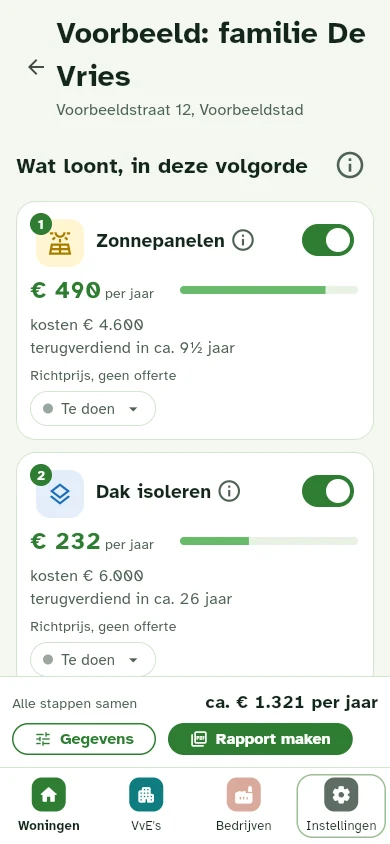
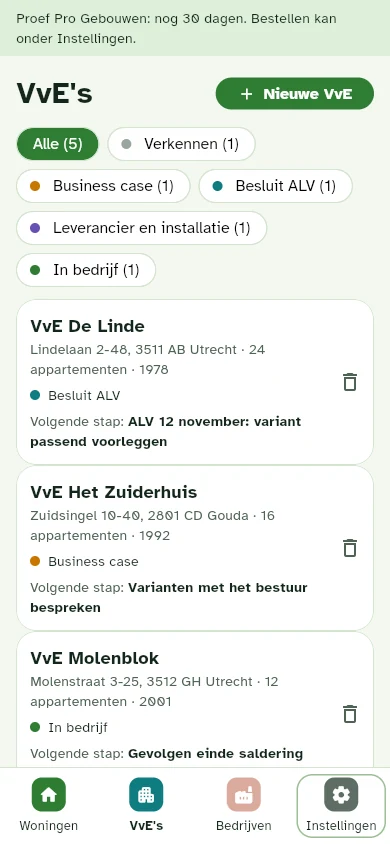
Adviseurspagina: VvE-lijst en VvE-detail als beeld, blokken gelden voor woning en VvE, regel 'Voor wie is dit?'; hoofdpagina: zelfde beeld

diff --git a/adviseurs.html b/adviseurs.html
@@ -73,6 +73,7 @@
   }
   .knop:hover { filter: brightness(1.08); }
   .knop.rand { background: transparent; color: var(--brand); border: 2px solid var(--brand); padding: calc(0.8rem - 2px) calc(1.5rem - 2px); }
+  .voorwie { margin-top: 1.25rem; padding: 0.9rem 1.1rem; border: 1px solid var(--line); border-radius: 12px; background: var(--soft); font-size: 1rem; }
   .labels { list-style: none; padding: 0; display: flex; flex-wrap: wrap; gap: 0.5rem; }
   .labels li { background: var(--soft); border: 1px solid var(--line); border-radius: 999px; padding: 0.3rem 0.9rem; font-size: 1rem; }
 
@@ -117,16 +118,18 @@
     <li>Op laptop, tablet en telefoon</li>
   </ul>
 
+  <p class="voorwie"><strong>Voor wie is dit?</strong> EnergieVriend Pro is voor professionals die voor anderen rekenen: u adviseert de bewoner van een woning, of het bestuur van een VvE. Wilt u zelf weten wat er loont voor uw eigen huis? Dan is er de gratis app: <a href="index.html">EnergieVriend voor thuis</a>.</p>
+
   <section>
     <h2>Zo ziet het eruit</h2>
     <div class="scherm">
       <figure>
-        <img class="beeld" src="img/pro-laptop.webp" width="1280" height="800" alt="Het scherm van een klant in EnergieVriend Pro: een stappenplan met per stap de kosten, de terugverdientijd en het bedrag per jaar" loading="lazy">
-        <figcaption>Een woning op de laptop, met verzonnen gegevens. In Pro laadt u zo'n voorbeeld met één knop.</figcaption>
+        <img class="beeld" src="img/pro-laptop.webp" width="1280" height="800" alt="De lijst met VvE's in EnergieVriend Pro, met per VvE de fase en de volgende stap" loading="lazy">
+        <figcaption>De lijst met VvE's op de laptop, met verzonnen gegevens. In Pro laadt u een voorbeeld met één knop.</figcaption>
       </figure>
       <figure>
-        <img class="beeld" src="img/pro-telefoon.webp" width="390" height="844" alt="Dezelfde klant op een telefoon" loading="lazy">
-        <figcaption>Dezelfde woning op de telefoon.</figcaption>
+        <img class="beeld" src="img/pro-telefoon.webp" width="390" height="844" alt="Dezelfde lijst met VvE's op een telefoon" loading="lazy">
+        <figcaption>Dezelfde lijst op de telefoon.</figcaption>
       </figure>
     </div>
   </section>
@@ -135,16 +138,16 @@
     <h2>Wat u er mee doet</h2>
     <div class="drie">
       <div class="blok">
-        <h3>Eén plan per woning</h3>
-        <p>U vult de woning in en ziet direct welke stappen zich terugverdienen, in welke volgorde, wat ze kosten en wat ze per jaar opleveren. Achter het ⓘ bij elke stap staat hoe er is gerekend.</p>
+        <h3>Eén plan per klant</h3>
+        <p>U vult de woning of de VvE van uw klant in en ziet direct wat er loont en in welke volgorde, wat het kost en wat het per jaar oplevert. Achter het ⓘ staat hoe er is gerekend.</p>
       </div>
       <div class="blok">
         <h3>Uw prijzen</h3>
-        <p>Zet uw eigen standaardprijzen in, en vul per klant het bedrag uit een offerte in. Bij elke stap ziet u of het uw prijs is of een richtprijs.</p>
+        <p>Zet uw eigen standaardprijzen in, en vul per klant het bedrag uit een offerte in. U ziet of het uw prijs is of een richtprijs. Bij een VvE staat de offerteprijs naast de richtprijzen.</p>
       </div>
       <div class="blok">
         <h3>Uw rapport</h3>
-        <p>Een PDF met uw naam, contactgegevens en logo. "Onafhankelijk advies" staat er alleen op als u dat zelf aanzet.</p>
+        <p>Een PDF met uw naam, contactgegevens en logo, voor de klant of als ALV-rapport voor een VvE. "Onafhankelijk advies" staat er alleen op als u dat zelf aanzet.</p>
       </div>
     </div>
   </section>
@@ -155,6 +158,10 @@
       <p>Met de uitbreiding Pro Gebouwen rekent u zonnepanelen door op het dak van een appartementencomplex. Op de algemene meter of per appartement, met wat het kost en oplevert per appartement. U maakt er een rapport voor de ledenvergadering mee, met een blad per appartement.</p>
       <p>U probeert Pro Gebouwen 30 dagen, op het moment dat u het nodig heeft. Bedrijfsdaken komen er later bij.</p>
     </div>
+    <figure style="margin-top: 1rem;">
+      <img class="beeld" src="img/pro-vve-detail.webp" width="1280" height="1150" alt="Een VvE in EnergieVriend Pro: gebouw, dak en algemene meter, en de drie varianten naast elkaar met investering, opbrengst en terugverdientijd" loading="lazy">
+      <figcaption><strong>Eén VvE.</strong> Gebouw, dak en meter, en de varianten naast elkaar: wat het kost, wat het per jaar oplevert en wanneer het is terugverdiend.</figcaption>
+    </figure>
     <div style="display: grid; grid-template-columns: repeat(auto-fit, minmax(300px, 1fr)); gap: 1.25rem; margin-top: 1rem;">
       <figure>
         <img class="beeld" src="img/pro-vve-aandachtspunten.webp" width="1280" height="1000" alt="Het scherm Aandachtspunten van een VvE in EnergieVriend Pro: wat al is meegerekend en acht tegels met wat u nog navraagt, zoals dak, installatie en verzekering" loading="lazy">

diff --git a/index.html b/index.html
@@ -152,9 +152,9 @@
         <h2 id="pro-kop">Werkt u als energieadviseur, coach of voor een VvE?</h2>
         <p>Dan is er <strong>EnergieVriend Pro</strong>: dezelfde berekening als de app, maar bedoeld voor uw werk. Reken bij het huisbezoek uit wat er loont voor een woning, met uw eigen prijzen en een rapport in uw eigen huisstijl. Ook voor zonnepanelen op het dak van een appartementencomplex.</p>
         <p><a class="knop" href="adviseurs.html">Bekijk EnergieVriend Pro</a></p>
-        <p class="klein">Draait in uw browser, 30 dagen proberen. De app hieronder is voor uw eigen huis.</p>
+        <p class="klein">Draait in uw browser, 30 dagen proberen. Zoekt u advies voor uw eigen huis? Dan bent u hier goed: de app hieronder is voor thuis.</p>
       </div>
-      <img src="img/pro-laptop.webp" width="1280" height="800" alt="EnergieVriend Pro op een laptop: het stappenplan van een woning met per stap de kosten en de opbrengst" loading="lazy">
+      <img src="img/pro-laptop.webp" width="1280" height="800" alt="EnergieVriend Pro op een laptop: de lijst met VvE's, met per VvE de fase en de volgende stap" loading="lazy">
     </div>
   </section>
 
